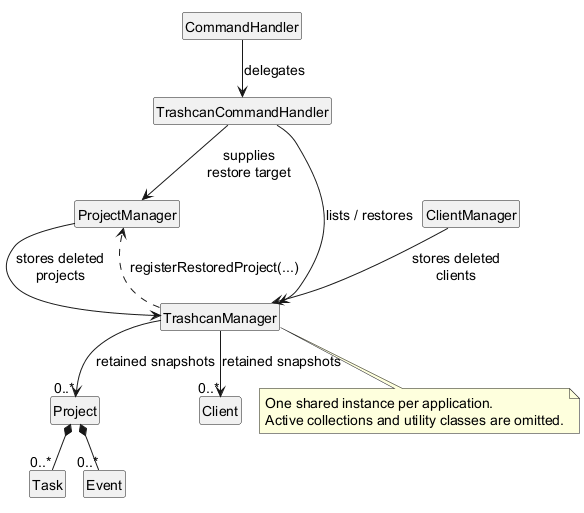
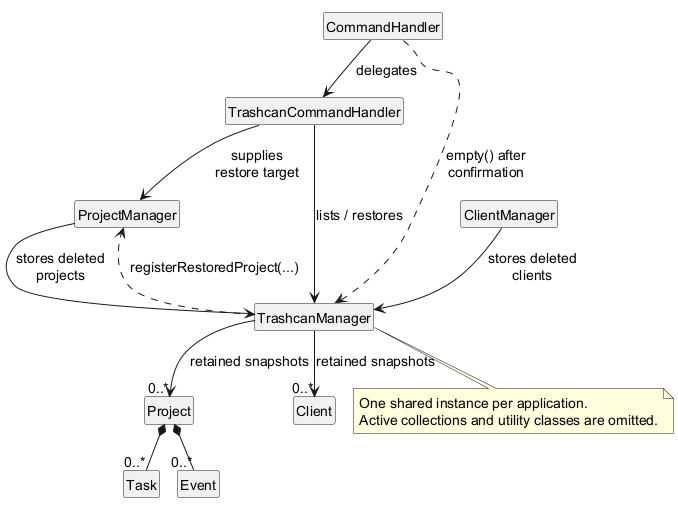
Update Developer Guide and PPP

diff --git a/docs/DeveloperGuide.md b/docs/DeveloperGuide.md
@@ -356,7 +356,8 @@ Assertions check internal assumptions: only client commands reach `ClientCommand
 
 This enhancement lets users remove unwanted records while protecting against accidental
 deletion and broken relationships. It covers `project.delete`, `client.delete`,
-`client.delete_note`, `task.delete`, `event.delete`, `trashcan.list` and `trashcan.restore`.
+`client.delete_note`, `task.delete`, `event.delete`, `trashcan.list`, `trashcan.restore`
+and `trashcan.empty`.
 
 Deletion has two stages: selecting and validating a record, then waiting for confirmation.
 Deleted projects and clients are retained as independent snapshots. Individually deleted
@@ -367,15 +368,18 @@ tasks, events and notes are removed without entering the trashcan.
 `CommandHandler` coordinates deletion confirmation because subsequent input must answer
 the pending operation before normal command processing resumes. It stores the selected
 project, client, task or event. For a note, the private `PendingNoteDeletion` record stores
-the client ID, one-based index and preview text.
+the client ID, one-based index and preview text. The boolean `pendingTrashcanEmpty`
+tracks confirmation for clearing the entire trashcan, which has no individual target ID.
 
 `ClientManager` manages active clients and their notes. `ProjectManager` manages active
 projects and their tasks and events. Both managers send deleted records to the same
 `TrashcanManager`, which owns the deleted snapshots.
 
-`TrashcanCommandHandler` validates and executes trashcan commands. The main handler
-delegates these commands while retaining responsibility for catching application exceptions
-and showing errors. `Ui` and `ClientUi` format the responses.
+`TrashcanCommandHandler` validates and executes listing and restoration commands and supplies
+usage hints for all trashcan commands. `CommandHandler` routes `trashcan.empty` before
+general trashcan delegation so it can reuse the application's confirmation lifecycle.
+The main handler also catches application exceptions and shows errors.
+`Ui` and `ClientUi` format the responses.
 
 At startup, `DataStorage#load` creates one `TrashcanManager` and supplies it to both
 active-data managers. The command handler obtains that same instance through
@@ -407,7 +411,8 @@ prompt or handling `save`. `CommandHandler#execute` makes the same check before 
 commands. Together, these checks prevent another CLI command from replacing the selected
 record while confirmation is pending.
 
-The lifecycle is implemented using nullable pending fields. The sequence diagram below
+The lifecycle uses nullable pending fields for individual records and a boolean for
+trashcan emptying. The sequence diagram below
 shows how the application handles confirmation answers and end of input. Input reading
 is simplified; validation and model deletion details are shown in the project deletion
 section. The single-threaded command loop allows only one pending deletion at a time.
@@ -492,6 +497,38 @@ trash lookup must already have succeeded. Validation failures are summarized as 
 
 ![Sequence diagram of project restoration](images/ProjectRestoreSequenceDiagram.png)
 
+#### Permanently emptying the trashcan
+
+`trashcan.empty` accepts no arguments. `CommandHandler#routeCommand` rejects extra
+arguments with a `CommandException` before setting any pending state. The shared error
+handler then displays `Use trashcan.empty without arguments.` and the usage hint
+`Format: trashcan.empty`, supplied by `TrashcanCommandHandler#showCommandUsage`.
+
+For a valid request, the handler sets `pendingTrashcanEmpty` and asks
+`Permanently delete all items in the trashcan? Type yes or no.`. No model data changes
+at this point. `isAwaitingDeletionConfirmation()` includes this flag, so the existing
+command loop prevents other commands, including `save` and `exit`, from bypassing
+confirmation.
+
+`handleDeletionConfirmation` routes the answer to `handleTrashcanEmptyConfirmation`:
+
+* `yes` calls `TrashcanManager#empty`, resets the flag and displays `Trashcan emptied.`.
+* `no` calls `cancelPendingDeletion`, resets the flag and displays
+  `Trashcan emptying cancelled.` without changing retained entries.
+* Other answers display an error and repeat the prompt, leaving the flag and entries unchanged.
+* End of input invokes `cancelPendingDeletion` before the command loop attempts to save.
+
+The sequence diagram shows a valid request followed by confirmation. The application
+input loop, parsing, separators and invalid-answer retries are omitted; those follow
+the shared confirmation lifecycle.
+
+![Sequence diagram of trashcan.empty confirmation and removal](images/TrashcanEmptySequenceDiagram.png)
+
+`TrashcanManager#empty` clears both `deletedProjects` and `deletedClients`. Retained
+project activities and client notes disappear with their owning snapshots. Active managers,
+their records and their ID counters are unchanged. Clearing an already empty trashcan
+succeeds after the same confirmation. Emptied entries cannot subsequently be restored.
+
 #### Persistence and compatibility
 
 `DataStorage` saves trashcan records in the existing properties file under keys beginning
@@ -511,9 +548,14 @@ Older files without a trash section load with an empty trashcan. Active projects
 written in numeric ID order because restoring an older project can append it after
 newer projects in memory, while the loader reconstructs IDs in ascending order.
 
-Deletion and restoration change in-memory data. The existing `save` and `exit` paths
+Deletion, restoration and trashcan emptying change in-memory data. The existing `save` and `exit` paths
 persist those changes using the temporary-file replacement described in the persistence
 section. No command-specific file writes are introduced.
+
+After emptying, the next save writes zero trashcan counts and omits the former entry keys
+because `DataStorage#save` builds a fresh `Properties` object. Loading that file therefore
+does not resurrect old entries. Saved next-ID counters still prevent reuse of deleted IDs;
+the storage format needs no changes.
 
 #### Design choices and alternatives
 
@@ -523,10 +565,13 @@ section. No command-specific file writes are introduced.
 * **Restore original IDs rather than create replacements:** this preserves project
   ownership and activity identifiers. It requires conflict checks before registration.
 * **Separate trashcan responsibilities:** `TrashcanManager` owns retained data;
-  `TrashcanCommandHandler` owns command parsing. Active-data managers retain their
-  validation rules and ID counters.
+  `TrashcanCommandHandler` handles listing, restoration and usage hints. `CommandHandler`
+  coordinates emptying because it owns confirmation state. Active-data managers retain
+  their validation rules and ID counters.
 * **Explicit confirmation rather than immediate deletion:** the extra interaction gives
-  users an opportunity to inspect the selected record before changing data.
+  users an opportunity to inspect the selected record before changing data. Emptying also
+  requires confirmation because all retained entries become unavailable for restoration.
+  Immediate clearing would need less command state but would provide no cancellation step.
 * **Indexed string notes rather than note entities:** this is sufficient for the current
   feature. Stable note IDs would be more suitable if notes later support independent
   editing, reordering or concurrent changes.
@@ -539,7 +584,9 @@ commands needed the same confirmation behavior.
 
 [`TrashcanCommandTest`](../src/test/java/busynotfree/command/TrashcanCommandTest.java) covers
 listing, invalid restoration requests, successful restoration, inactive clients, repeated
-restoration and conflicting IDs.
+restoration and conflicting IDs. It also covers confirmed emptying, rejected arguments,
+repeated emptying, cancellation, invalid confirmation answers and preservation of active
+records and ID counters.
 [`TrashcanManagerTest`](../src/test/java/busynotfree/model/TrashcanManagerTest.java) checks
 shared wiring, snapshot isolation, duplicate retained IDs and failed registration preserving
 the snapshot. [`TrashcanCommandHandlerTest`](../src/test/java/busynotfree/command/TrashcanCommandHandlerTest.java)
@@ -549,11 +596,15 @@ Deletion tests in [`CommandHandlerTest`](../src/test/java/busynotfree/command/Co
 and [`ClientCommandHandlerTest`](../src/test/java/busynotfree/command/ClientCommandHandlerTest.java)
 cover invalid IDs, invalid note indexes, confirmation, cancellation and preservation of
 unrelated records. [`BusyNotFreeTest`](../src/test/java/busynotfree/BusyNotFreeTest.java) checks
-cancellation before saving at end of input.
+cancellation before saving at end of input, including pending trashcan emptying, and
+checks that `save` cannot bypass emptying confirmation.
 [`DataStorageTest`](../src/test/java/busynotfree/storage/DataStorageTest.java) covers persistence,
-older files, restoration of older projects and prevention of ID reuse.
+older files, restoration of older projects and prevention of ID reuse. Its emptying test
+first loads previously saved trash, clears it, saves again and reloads to verify both
+collections stay empty while next-ID counters are preserved.
 
-The trashcan currently has no expiry or cleanup command. Client restoration is not supported,
+The trashcan has no automatic expiry; users can explicitly clear it with `trashcan.empty`.
+Client restoration is not supported,
 so a project whose client was deleted remains visible but cannot be restored. Individually
 deleted activities and notes cannot be recovered. These are current limitations, rather
 than behavior provided by this enhancement.
@@ -690,6 +741,31 @@ For deletion commands, enter `yes` or `no` when prompted. Invalid commands
 should display an error and leave the affected record unchanged. The automated
 verification suite can be run with `.\gradlew.bat check`; it compiles the
 project, runs the tests, and runs Checkstyle.
+
+### Trashcan emptying and persistence
+
+Use a fresh, writable test directory so the following IDs start at `C001` and `P001`.
+Create a client with a note, then a project with a task and event. Delete the project
+and client, confirming each deletion, and enter `save`. `trashcan.list` should show
+both snapshots and their retained contents.
+
+1. Enter `trashcan.empty extra`. Expect an error and `Format: trashcan.empty`.
+   `trashcan.list` must still show both snapshots.
+2. Enter `trashcan.empty`, then `maybe` and `save`. Each answer must report a
+   confirmation error without clearing or saving. Enter `no`, then `trashcan.list`;
+   both snapshots must remain.
+3. Add a second client and project, which should receive `C002` and `P002`. Enter
+   `trashcan.empty`, then `yes`. Expect `Trashcan emptied.`. `trashcan.list` should
+   now display `Trashcan is empty.`, while `client.view C002` and `project.view P002`
+   still show the active records. `trashcan.restore P001` must fail.
+4. Enter `save`, then `exit`, and restart from the same directory. The trashcan must
+   remain empty and active records must remain available. Create another client and
+   project; expect `C003` and `P003`, confirming that clearing did not reset counters.
+5. Enter `trashcan.empty`, then `yes` again. Emptying an empty trashcan must succeed.
+
+For cancellation at end of input, use the automated `BusyNotFreeTest` fixture, which
+ends a simulated input stream immediately after `trashcan.empty` and verifies that
+the retained entries are still present when saving occurs.
 
 ### Project views, completion and saving
 

diff --git a/docs/team/cf36.md b/docs/team/cf36.md
@@ -13,11 +13,12 @@ BusyNotFree is a Java command-line application that helps freelancers manage cli
 - **Enhancements implemented:**
   - **Deletion with confirmation:** Implemented `project.delete`, `client.delete`, `client.delete_note`, `task.delete` and `event.delete`. Prompts identify the selected record before requiring `yes` or `no`; invalid answers preserve the pending operation, and end of input cancels it. Client deletion rejects clients with projects, preventing broken ownership links. Notes are numbered to support selecting the correct note. Evidence: [project deletion](https://github.com/CF36/tp/commit/5fdd99b85eeedfc6b50bac9b5691d6da96f5cb75), [confirmation](https://github.com/CF36/tp/commit/214d9b3).
   - **Trashcan and project recovery:** Implemented `trashcan.list` and `trashcan.restore PROJECT_ID`. Deleted projects retain their tasks and events; deleted clients retain their notes. Restoration preserves original IDs, dates, project status and task completion. It checks client availability and ID conflicts before changing data, and removes the trash entry only after successful registration. Extended storage to retain trash entries across restarts and load older files without a trash section. This required coordinating deletion, model relationships and persistence. Evidence: [trashcan implementation](https://github.com/CF36/tp/commit/d6b9607b0fe1728bfaad6c61cf73c500d1e48f84).
-  - **Design and validation:** Separated snapshot ownership into `TrashcanManager` and command parsing into `TrashcanCommandHandler`. Added tests for missing and invalid IDs/indexes, confirmation, cancellation, preservation of unrelated records, repeated deletion/restoration, snapshot isolation, save/load and prevention of ID reuse. Also implemented the `help` command. **TODO-02:** Add merged team-repository PR links for these enhancements.
+  - **Permanent trashcan cleanup:** Added `trashcan.empty` to remove all retained projects and clients, including their activities and notes, after `yes` confirmation. Reused the existing confirmation lifecycle so cancellation, invalid answers and end of input preserve entries. Active records and ID counters remain unchanged; emptying is persisted through the existing save path. See the [implementation](../../src/main/java/busynotfree/model/TrashcanManager.java) and [command coordination](../../src/main/java/busynotfree/command/CommandHandler.java).
+  - **Design and validation:** Separated snapshot ownership into `TrashcanManager` and listing/restoration handling into `TrashcanCommandHandler`; retained confirmation coordination in `CommandHandler`. Added tests for missing and invalid IDs/indexes, confirmation, cancellation, preservation of unrelated records, repeated deletion/restoration, snapshot isolation, save/load and prevention of ID reuse. Extended coverage for trashcan emptying, including extra arguments, repeated emptying, blocked save commands, cancellation at end of input and clearing previously saved entries without resetting ID counters. Also implemented the `help` command. **TODO-02:** Add merged team-repository PR links for these enhancements.
 
-- **Contributions to the User Guide:** Documented deletion commands and the [Trashcan section](../UserGuide.md#trashcan), including formats, confirmation, errors, recovery constraints and persistence. Updated the command summary and numbered-note examples.
+- **Contributions to the User Guide:** Documented deletion commands and the [Trashcan section](../UserGuide.md#trashcan), including formats, confirmation, errors, recovery constraints and persistence. Added [trashcan emptying](../UserGuide.md#empty-the-trashcan-trashcanempty), covering permanent removal, confirmation, cancellation and saving. Updated the command summary and numbered-note examples.
 
-- **Contributions to the Developer Guide:** Wrote [Trashcan responsibilities and shared wiring](../DeveloperGuide.md#trashcan-responsibilities-and-shared-wiring), explaining snapshot ownership, handler delegation, restoration checks and storage integration. **TODO-03:** List UML diagrams I personally added/updated with evidence, or state that I contributed no UML diagrams.
+- **Contributions to the Developer Guide:** Wrote [Trashcan responsibilities and shared wiring](../DeveloperGuide.md#trashcan-responsibilities-and-shared-wiring), explaining snapshot ownership, handler delegation, restoration checks and storage integration. Added [permanent emptying](../DeveloperGuide.md#permanently-emptying-the-trashcan), explaining confirmation state, removal, persistence and verification. Added the [trashcan emptying sequence diagram](../diagrams/TrashcanEmptySequenceDiagram.puml) and updated the [deletion and recovery class diagram](../diagrams/DeletionRecoveryClassDiagram.puml) to show the emptying dependency. **TODO-03:** Add merged PR evidence for these diagram changes and verify attribution for earlier diagrams.
 
 [//]: # (- **Contributions to team-based tasks:** **TODO-04:** Add verified coordination, integration, release or shared testing tasks, with issue/PR links; omit responsibilities I did not perform.)
 
